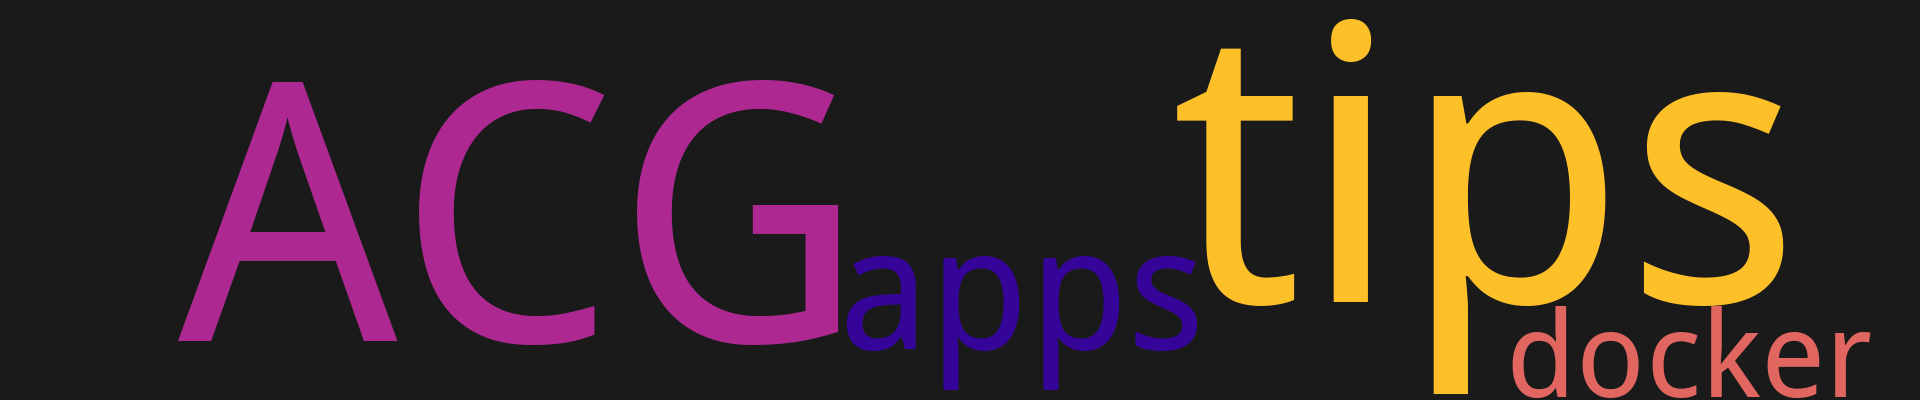
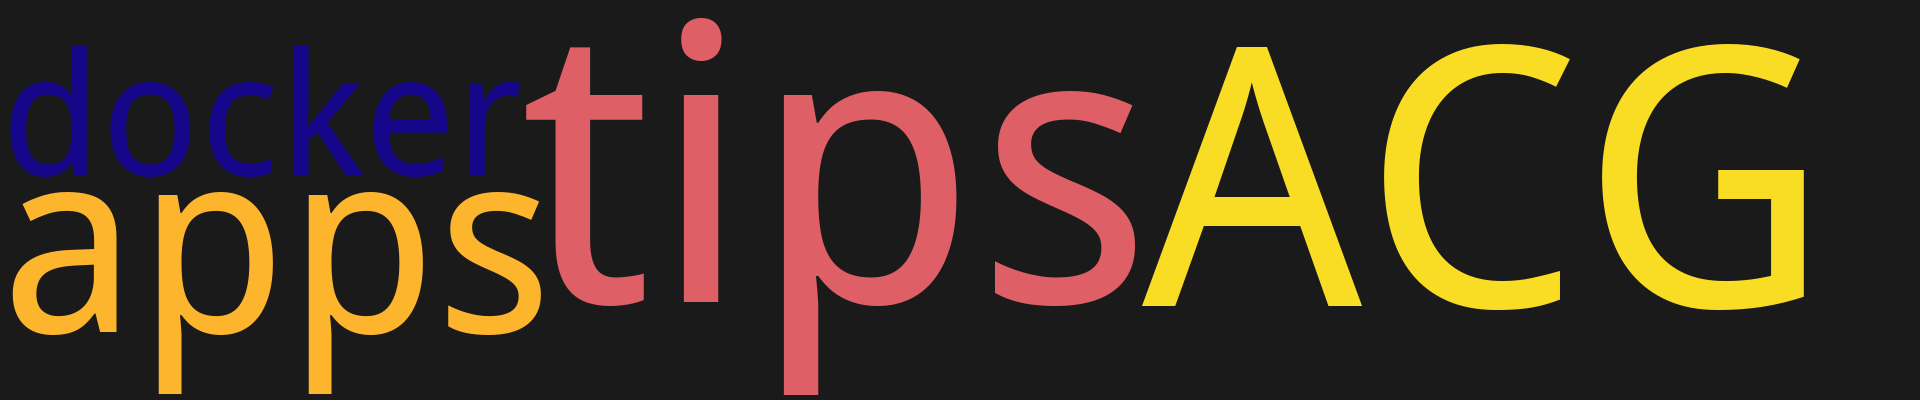
Update layout styles in index.html and README.md: Enhance category display with flexbox for better alignment and spacing. Update last commit timestamps for consistency across files. Replace word cloud images with new versions.

diff --git a/index.html b/index.html
@@ -509,13 +509,16 @@
     padding: 15px 20px;
     border-bottom: 1px solid var(--border-color);
     transition: background-color 0.3s ease, border-color 0.3s ease;
+    display: flex;
+    justify-content: space-between;
+    align-items: center;
 }
 
 .category-title {
     font-size: 1.1em;
     font-weight: 700;
     color: var(--text-color);
-    margin-bottom: 5px;
+    margin: 0;
 }
 
 .category-count {
@@ -635,7 +638,7 @@
     <main>
         <div class="badges">
             <img src="https://badgen.net/github/issues/syaofox/syaofox.github.io" alt="Issues"/>
-            <img src="https://badgen.net/badge/last-commit/2025-10-12 16:24:09" alt="Last Commit"/>
+            <img src="https://badgen.net/badge/last-commit/2025-10-12 16:29:15" alt="Last Commit"/>
             <img src="https://badgen.net/github/forks/syaofox/syaofox.github.io" alt="Forks"/>
             <img src="https://badgen.net/github/stars/syaofox/syaofox.github.io" alt="Stars"/>
             <img src="https://badgen.net/github/watchers/syaofox/syaofox.github.io" alt="Watchers"/>
@@ -800,7 +803,7 @@
     </main>
     
     <footer class="footer">
-        <p>最后更新：2025-10-12 16:24:09
+        <p>最后更新：2025-10-12 16:29:15
         <button id="theme-toggle" class="theme-toggle" title="切换主题">
             <svg class="theme-icon sun-icon" viewBox="0 0 24 24">
                 <circle cx="12" cy="12" r="5"/>

diff --git a/src/templates/index.html b/src/templates/index.html
@@ -104,13 +104,16 @@
     padding: 15px 20px;
     border-bottom: 1px solid var(--border-color);
     transition: background-color 0.3s ease, border-color 0.3s ease;
+    display: flex;
+    justify-content: space-between;
+    align-items: center;
 }
 
 .category-title {
     font-size: 1.1em;
     font-weight: 700;
     color: var(--text-color);
-    margin-bottom: 5px;
+    margin: 0;
 }
 
 .category-count {

diff --git a/README.md b/README.md
@@ -1,7 +1,7 @@
 
 <p align='center'>
     <img src="https://badgen.net/github/issues/syaofoxsyaofox.github.io"/>
-    <img src="https://badgen.net/badge/last-commit/2025-10-12 16:24:09"/>
+    <img src="https://badgen.net/badge/last-commit/2025-10-12 16:29:15"/>
     <img src="https://badgen.net/github/forks/syaofoxsyaofox.github.io"/>
     <img src="https://badgen.net/github/stars/syaofoxsyaofox.github.io"/>
     <img src="https://badgen.net/github/watchers/syaofoxsyaofox.github.io"/>
